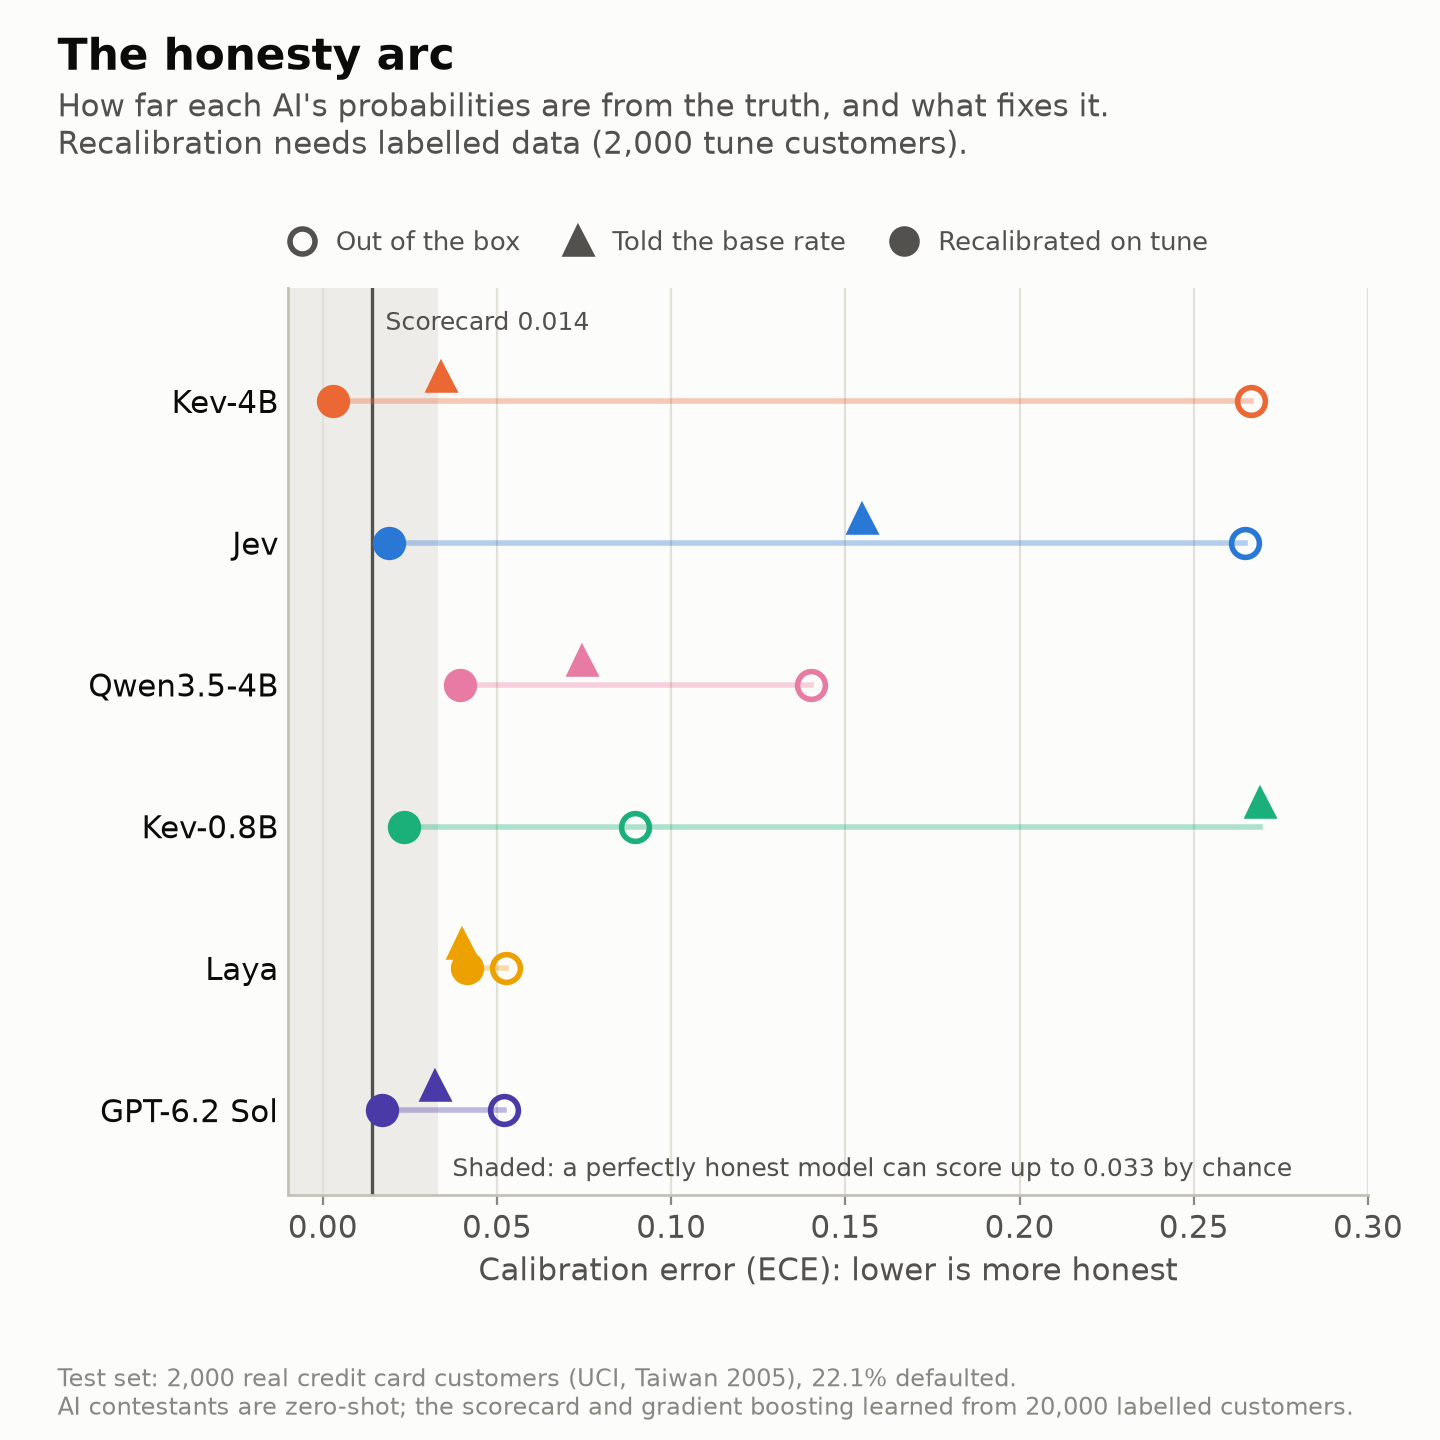
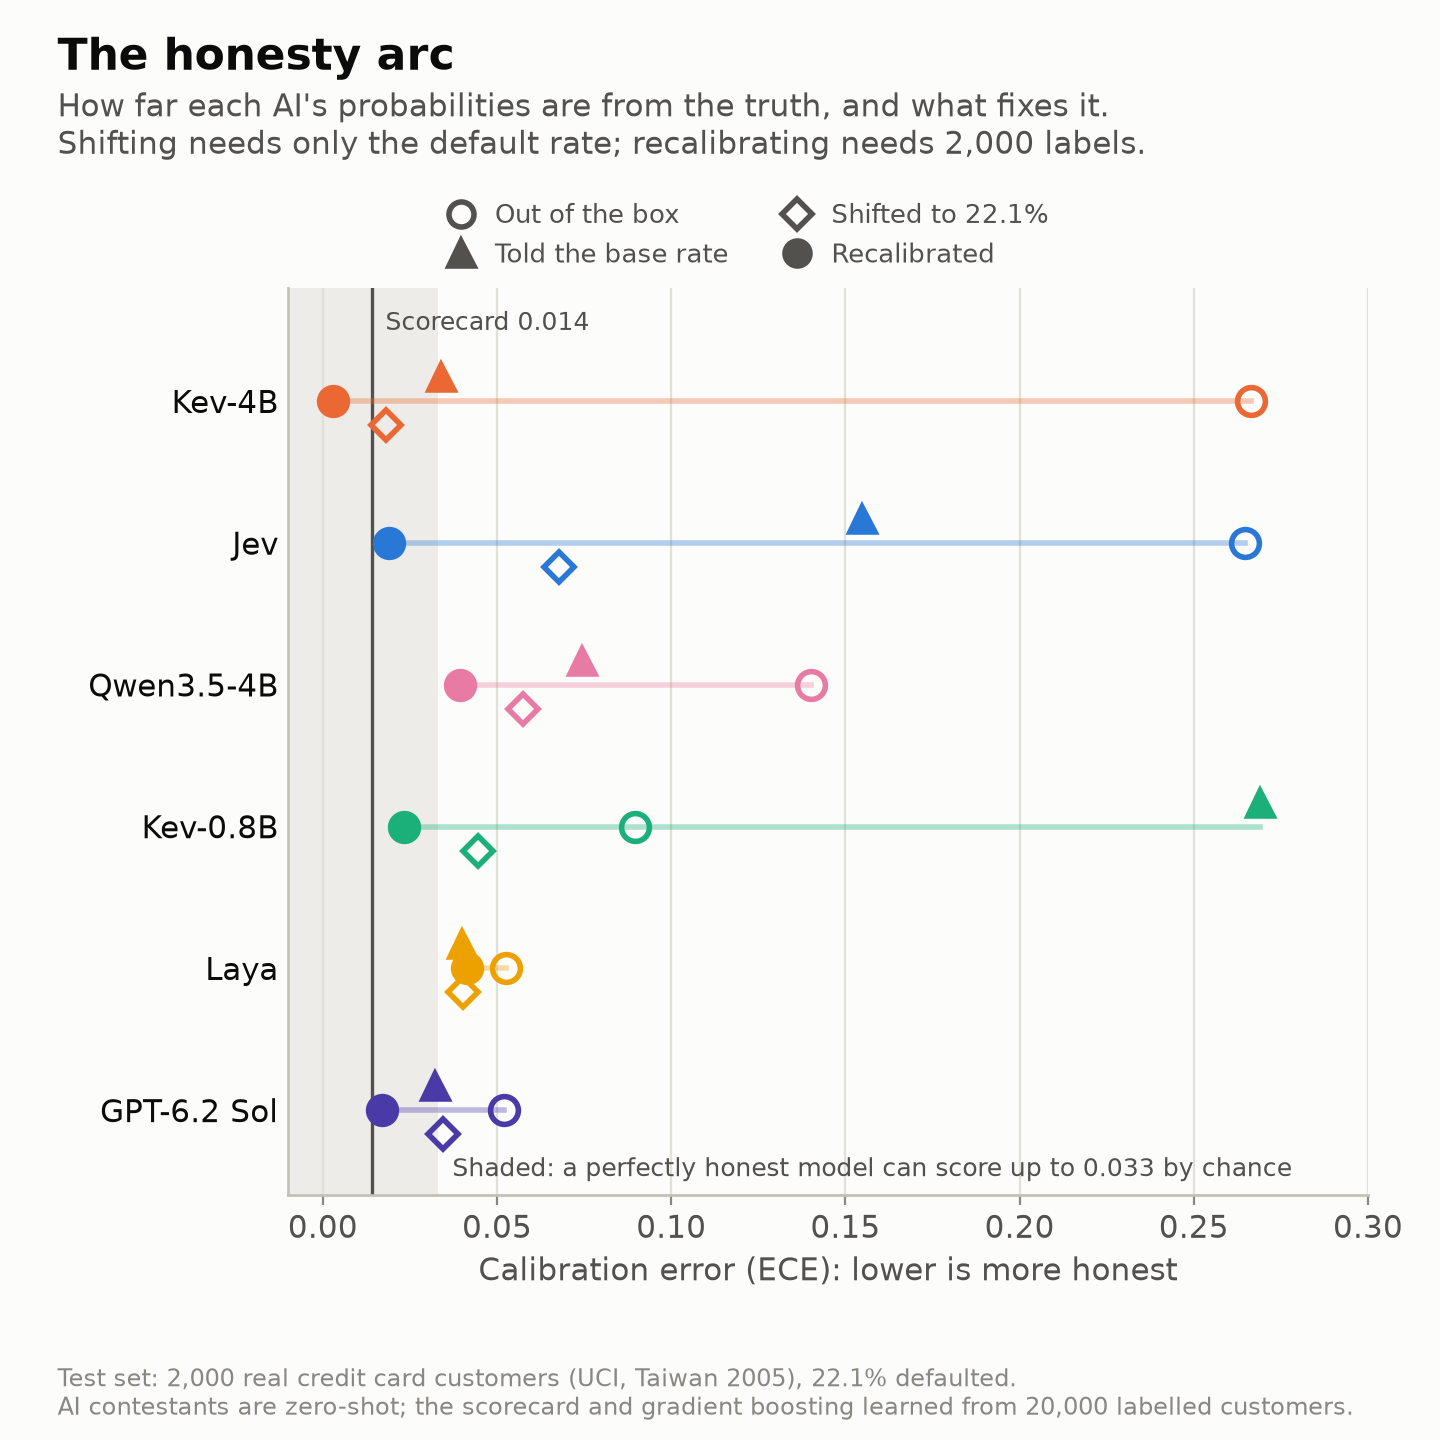
Post fixes: dark-mode charts, risk bands as a table, alt text, full status table
- Every chart has a dark version (data-dark-src) that follows the theme toggle
- "What a bank would see" is an HTML table instead of an image; wide tables
  scroll inside themselves on phones
- Alt text describes each chart's takeaway
- Repayment-status table gains the code -2 and 3+ months late rows (now 2,000)
- Honesty arc: no "tune" jargon, and the label-free shift is shown
- Cost chart added to "It's cheap either way"; unused risk-band PNG removed
- "2 points behind" -> "2 to 3.5 points behind"

diff --git a/_layouts/default.html b/_layouts/default.html
@@ -53,7 +53,19 @@
         frame.contentWindow.postMessage({ giscus: { setConfig: { theme: theme } } }, 'https://giscus.app');
       }
 
+      // Charts with a dark version (data-dark-src on the img, set in the post) follow the theme
+      function swapCharts(theme) {
+        var imgs = document.querySelectorAll('img[data-dark-src]');
+        Array.prototype.forEach.call(imgs, function (img) {
+          if (!img.hasAttribute('data-light-src')) img.setAttribute('data-light-src', img.getAttribute('src'));
+          var src = img.getAttribute(theme === 'dark' ? 'data-dark-src' : 'data-light-src');
+          if (img.getAttribute('src') !== src) img.setAttribute('src', src);
+          img.setAttribute('data-theme-ready', '');
+        });
+      }
+
       function apply(theme) {
+        swapCharts(theme);
         root.setAttribute('data-theme', theme);
         var label = 'Switch to ' + (theme === 'dark' ? 'light' : 'dark') + ' mode';
         button.setAttribute('aria-label', label);

diff --git a/public/css/main.css b/public/css/main.css
@@ -292,6 +292,18 @@ th, td {
   text-align: left;
 }
 
+/* A second, smaller line in a cell (e.g. "22% of customers") stays on one line */
+td small { white-space: nowrap; }
+
+/* Wide tables scroll inside themselves on phones instead of widening the page */
+@media (max-width: 640px) {
+  .post-content table { display: block; overflow-x: auto; }
+}
+
+/* Charts with a dark version (data-dark-src, set in the post): hidden in dark mode until the
+   script in default.html swaps the source, so the light chart never flashes */
+:root[data-theme="dark"] img[data-dark-src]:not([data-theme-ready]) { visibility: hidden; }
+
 th { background: var(--accent-soft); font-weight: 600; color: var(--accent-ink); }
 tbody tr:nth-child(even) td { background: var(--row-alt); }
 

diff --git a/_posts/2026-11-23-can-ai-know-when-its-wrong.md b/_posts/2026-11-23-can-ai-know-when-its-wrong.md
@@ -58,7 +58,7 @@ Each AI model answered three ways:
 
 Here's the whole test in one picture, a [reliability diagram](https://scikit-learn.org/stable/modules/calibration.html#calibration-curves). For each model, I sorted the customers by predicted risk, split them into ten equal groups, and plotted what the model promised for each group against what actually happened.
 
-![Promised vs actual default rate](/public/images/can-ai-know-when-its-wrong/1_promised_vs_actual.png)
+![Six panels, one per AI model, plotting the default rate each promised against what actually happened, for ten groups of customers. Jev and Kev-4B sit far below the honest diagonal; Kev-0.8B and Qwen3.5-4B sit below it; Laya and GPT-6.2 Sol stay close to it, like the scorecard's grey reference line.](/public/images/can-ai-know-when-its-wrong/1_promised_vs_actual.png){: data-dark-src="/public/images/can-ai-know-when-its-wrong/1_promised_vs_actual-dark.png"}
 
 On the diagonal, a model is honest: when it says 30%, 30% default. Below it, the model is too pessimistic. Take the top-right dot in Jev's panel, the 200 customers Jev rated riskiest: it promised that about 80% of them would default, and 63% did. The grey line is the scorecard, and it hugs the diagonal.
 
@@ -70,7 +70,18 @@ I'll sum up the gap as one number, the *expected calibration error* ([ECE](https
 
 Five of the six overstated the risk. Jev said 48% of these customers would default, on average, and Kev-4B said 49%. The real figure was 22%. A bank acting on Jev's numbers would put 70% of its customers in the "40% or more" risk band, where only 26% actually defaulted.
 
-![What a bank would see](/public/images/can-ai-know-when-its-wrong/4_risk_bands.png)
+**What a bank would see.** Customers grouped by the risk each model predicted, out of the box. Each cell shows the default rate the model promised → the rate that actually happened, and the share of customers in that band. Starred models were trained on 20,000 labelled customers.
+
+| Model | 0–10% | 10–20% | 20–40% | 40% or more |
+|---|:---:|:---:|:---:|:---:|
+| Scorecard\* | 8% → 6%<br><small>22% of customers</small> | 14% → 14%<br><small>49% of customers</small> | 28% → 31%<br><small>15% of customers</small> | 64% → 64%<br><small>14% of customers</small> |
+| Gradient boosting\* | 7% → 6%<br><small>28% of customers</small> | 14% → 14%<br><small>39% of customers</small> | 28% → 30%<br><small>18% of customers</small> | 62% → 63%<br><small>15% of customers</small> |
+| Jev | 8% → 19%<br><small>1% of customers</small> | 15% → 16%<br><small>7% of customers</small> | 30% → 13%<br><small>23% of customers</small> | 58% → 26%<br><small>70% of customers</small> |
+| Kev-4B | 9% → 22%<br><small>&lt;1% of customers</small> | 16% → 14%<br><small>1% of customers</small> | 32% → 16%<br><small>25% of customers</small> | 55% → 24%<br><small>74% of customers</small> |
+| Kev-0.8B | none | 19% → 11%<br><small>22% of customers</small> | 25% → 14%<br><small>53% of customers</small> | 53% → 50%<br><small>25% of customers</small> |
+| Laya | 7% → 11%<br><small>18% of customers</small> | 15% → 17%<br><small>50% of customers</small> | 27% → 34%<br><small>21% of customers</small> | 57% → 40%<br><small>11% of customers</small> |
+| Qwen3.5-4B | 9% → 12%<br><small>&lt;1% of customers</small> | 16% → 14%<br><small>5% of customers</small> | 29% → 13%<br><small>68% of customers</small> | 56% → 47%<br><small>26% of customers</small> |
+| GPT-6.2 Sol | 8% → 12%<br><small>14% of customers</small> | 14% → 10%<br><small>47% of customers</small> | 27% → 24%<br><small>21% of customers</small> | 72% → 61%<br><small>17% of customers</small> |
 
 Jev's error is mostly a constant shift: it ranks customers sensibly, but every number starts too high. Part of Kev-4B's error was my fault, as I explain below. Only Laya and GPT-6.2 Sol were near the truth out of the box, both about 5 points off.
 
@@ -80,7 +91,7 @@ The one extra sentence took Kev-4B from 27 points off to 3, Jev from 26 to about
 
 There's a more reliable way to use the same fact: shift each model's numbers by one fixed amount until they average 22%. That needs no customer outcomes and can't change how a model ranks. It beat the sentence for four of the six models, leaving Kev-4B 2 points off and Jev 7.
 
-![The honesty arc](/public/images/can-ai-know-when-its-wrong/2_honesty_arc.png)
+![Calibration error for each AI model in four versions: out of the box, told the base rate, shifted to a 22.1% average, and recalibrated. Recalibration brings every model's error down to 4 points or less. The base-rate sentence helps Kev-4B most and makes Kev-0.8B much worse; the shift does better than the sentence for Jev, Kev-4B, Kev-0.8B and Qwen3.5-4B.](/public/images/can-ai-know-when-its-wrong/2_honesty_arc.png){: data-dark-src="/public/images/can-ai-know-when-its-wrong/2_honesty_arc-dark.png"}
 
 ### 3. The closest model knew this dataset
 
@@ -94,11 +105,11 @@ It doesn't seem to know the file's patterns: it ranks the "not late" customers i
 
 ### 4. The trained models still rank customers best
 
-Honest percentages are half the job. The other half is putting risky customers above safe ones, measured by a score called [AUC](https://en.wikipedia.org/wiki/Receiver_operating_characteristic#Area_under_the_curve), where 0.5 is a coin flip and 1.0 is perfect. Gradient boosting scored 0.789 and the scorecard 0.777, both trained on 20,000 labelled customers. The best AI models, Kev-4B with the base rate (0.757) and Sol (0.754), were 2 points behind, which matches [earlier work on this same dataset](https://arxiv.org/abs/2608.30086).
+Honest percentages are half the job. The other half is putting risky customers above safe ones, measured by a score called [AUC](https://en.wikipedia.org/wiki/Receiver_operating_characteristic#Area_under_the_curve), where 0.5 is a coin flip and 1.0 is perfect. Gradient boosting scored 0.789 and the scorecard 0.777, both trained on 20,000 labelled customers. The best AI models, Kev-4B with the base rate (0.757) and Sol (0.754), were 2 to 3.5 points behind, which matches [earlier work on this same dataset](https://arxiv.org/abs/2608.30086).
 
 In lending terms, that gap is small. Approving the 80% of customers each model rated safest, 13.6% of the scorecard's approvals would default, against 13.4% of Sol's.
 
-![Ranking ability](/public/images/can-ai-know-when-its-wrong/3_ranking_auc_ks.png)
+![Bar charts of ranking ability (AUC and KS) for all eight models, out of the box. Gradient boosting (AUC 0.789) and the scorecard (0.777), both trained, rank best. The best zero-shot AI models, GPT-6.2 Sol (0.754) and Kev-0.8B (0.750), come next, and Kev-4B ranks worst (0.594).](/public/images/can-ai-know-when-its-wrong/3_ranking_auc_ks.png){: data-dark-src="/public/images/can-ai-know-when-its-wrong/3_ranking_auc_ks-dark.png"}
 
 ### 5. You can buy honesty back, with labels
 
@@ -108,16 +119,20 @@ Recalibrating on 2,000 customers with known outcomes brought every AI model to w
 
 Sol cost about 74 cents per 1,000 decisions, Jev about 2 cents, and the open models under 2 cents on one rented GPU. The whole experiment, every check included, cost about 14 dollars in API calls plus a few more for GPU time.
 
+![Scatter of cost per 1,000 decisions against ranking ability (AUC). The trained models cost almost nothing to run and rank best. GPT-6.2 Sol costs about 74 cents per 1,000 decisions and ranks about as well as Kev-0.8B, which costs under a cent.](/public/images/can-ai-know-when-its-wrong/5_cost_vs_auc.png){: data-dark-src="/public/images/can-ai-know-when-its-wrong/5_cost_vs_auc-dark.png"}
+
 ## Why the results look like this
 
 I broke the test customers down by their most recent repayment status:
 
 | Most recent status | Customers | Actually defaulted | Jev | Kev-4B | Laya | GPT-6.2 Sol | Scorecard |
 |---|---:|---:|---:|---:|---:|---:|---:|
+| Not late (code −2) | 177 | 15% | 24% | 33% | 19% | 10% | 12% |
 | Paid on time (code −1) | 405 | 14% | 30% | 37% | 12% | 13% | 15% |
 | Not late (code 0) | 971 | 12% | 51% | 54% | 20% | 18% | 13% |
 | 1 month late | 245 | 37% | 61% | 51% | 27% | 51% | 36% |
 | 2 months late | 170 | 72% | 75% | 58% | 34% | 74% | 66% |
+| 3+ months late | 32 | 75% | 81% | 63% | 30% | 87% | 79% |
 
 - **One group causes most of the overstatement.** Half the customers carry a balance and pay part of it on time ("not late, code 0"). They're about as safe as people who pay in full: only 12% defaulted. Jev predicted 51% for them and Kev-4B 54%, which accounts for about three quarters of both models' overstatement. To a lender, paying part of a balance on time is ordinary; it's how card issuers earn interest. The models seem to read a small payment against a large bill as a customer in trouble.
 - **Some models start near even odds.** Decision models learn from tasks where "yes" isn't rare, so with no base rate they seem to start close to 50/50. That's what the base-rate sentence corrects.

diff --git a/README.md b/README.md
@@ -38,7 +38,7 @@ bundle exec jekyll serve --drafts
 
 1. Run the experiment in its own project repo (code, data, results and the write-up live there)
 2. Optionally publish an unlisted review copy in `review/` (`noindex: true`) for feedback
-3. Copy the finished post to `_posts/YYYY-MM-DD-slug.md`, with its figures in `public/images/<slug>/`
+3. Copy the finished post to `_posts/YYYY-MM-DD-slug.md`, with its figures in `public/images/<slug>/`. A chart with a dark-mode version gets `{: data-dark-src="/public/images/<slug>/<name>-dark.png"}` right after the image, and switches with the theme
 4. Set `description`, `image` and `image_alt` for link previews, `toc: true` for a contents list, and `math: true` if the post has equations (MathJax only loads there)
 5. Listening: every post gets a Listen button that reads it aloud with the reader's device voice. Set `audio: /public/audio/<slug>.mp3` to offer a narrated recording instead, or `listen: false` to hide it
 
